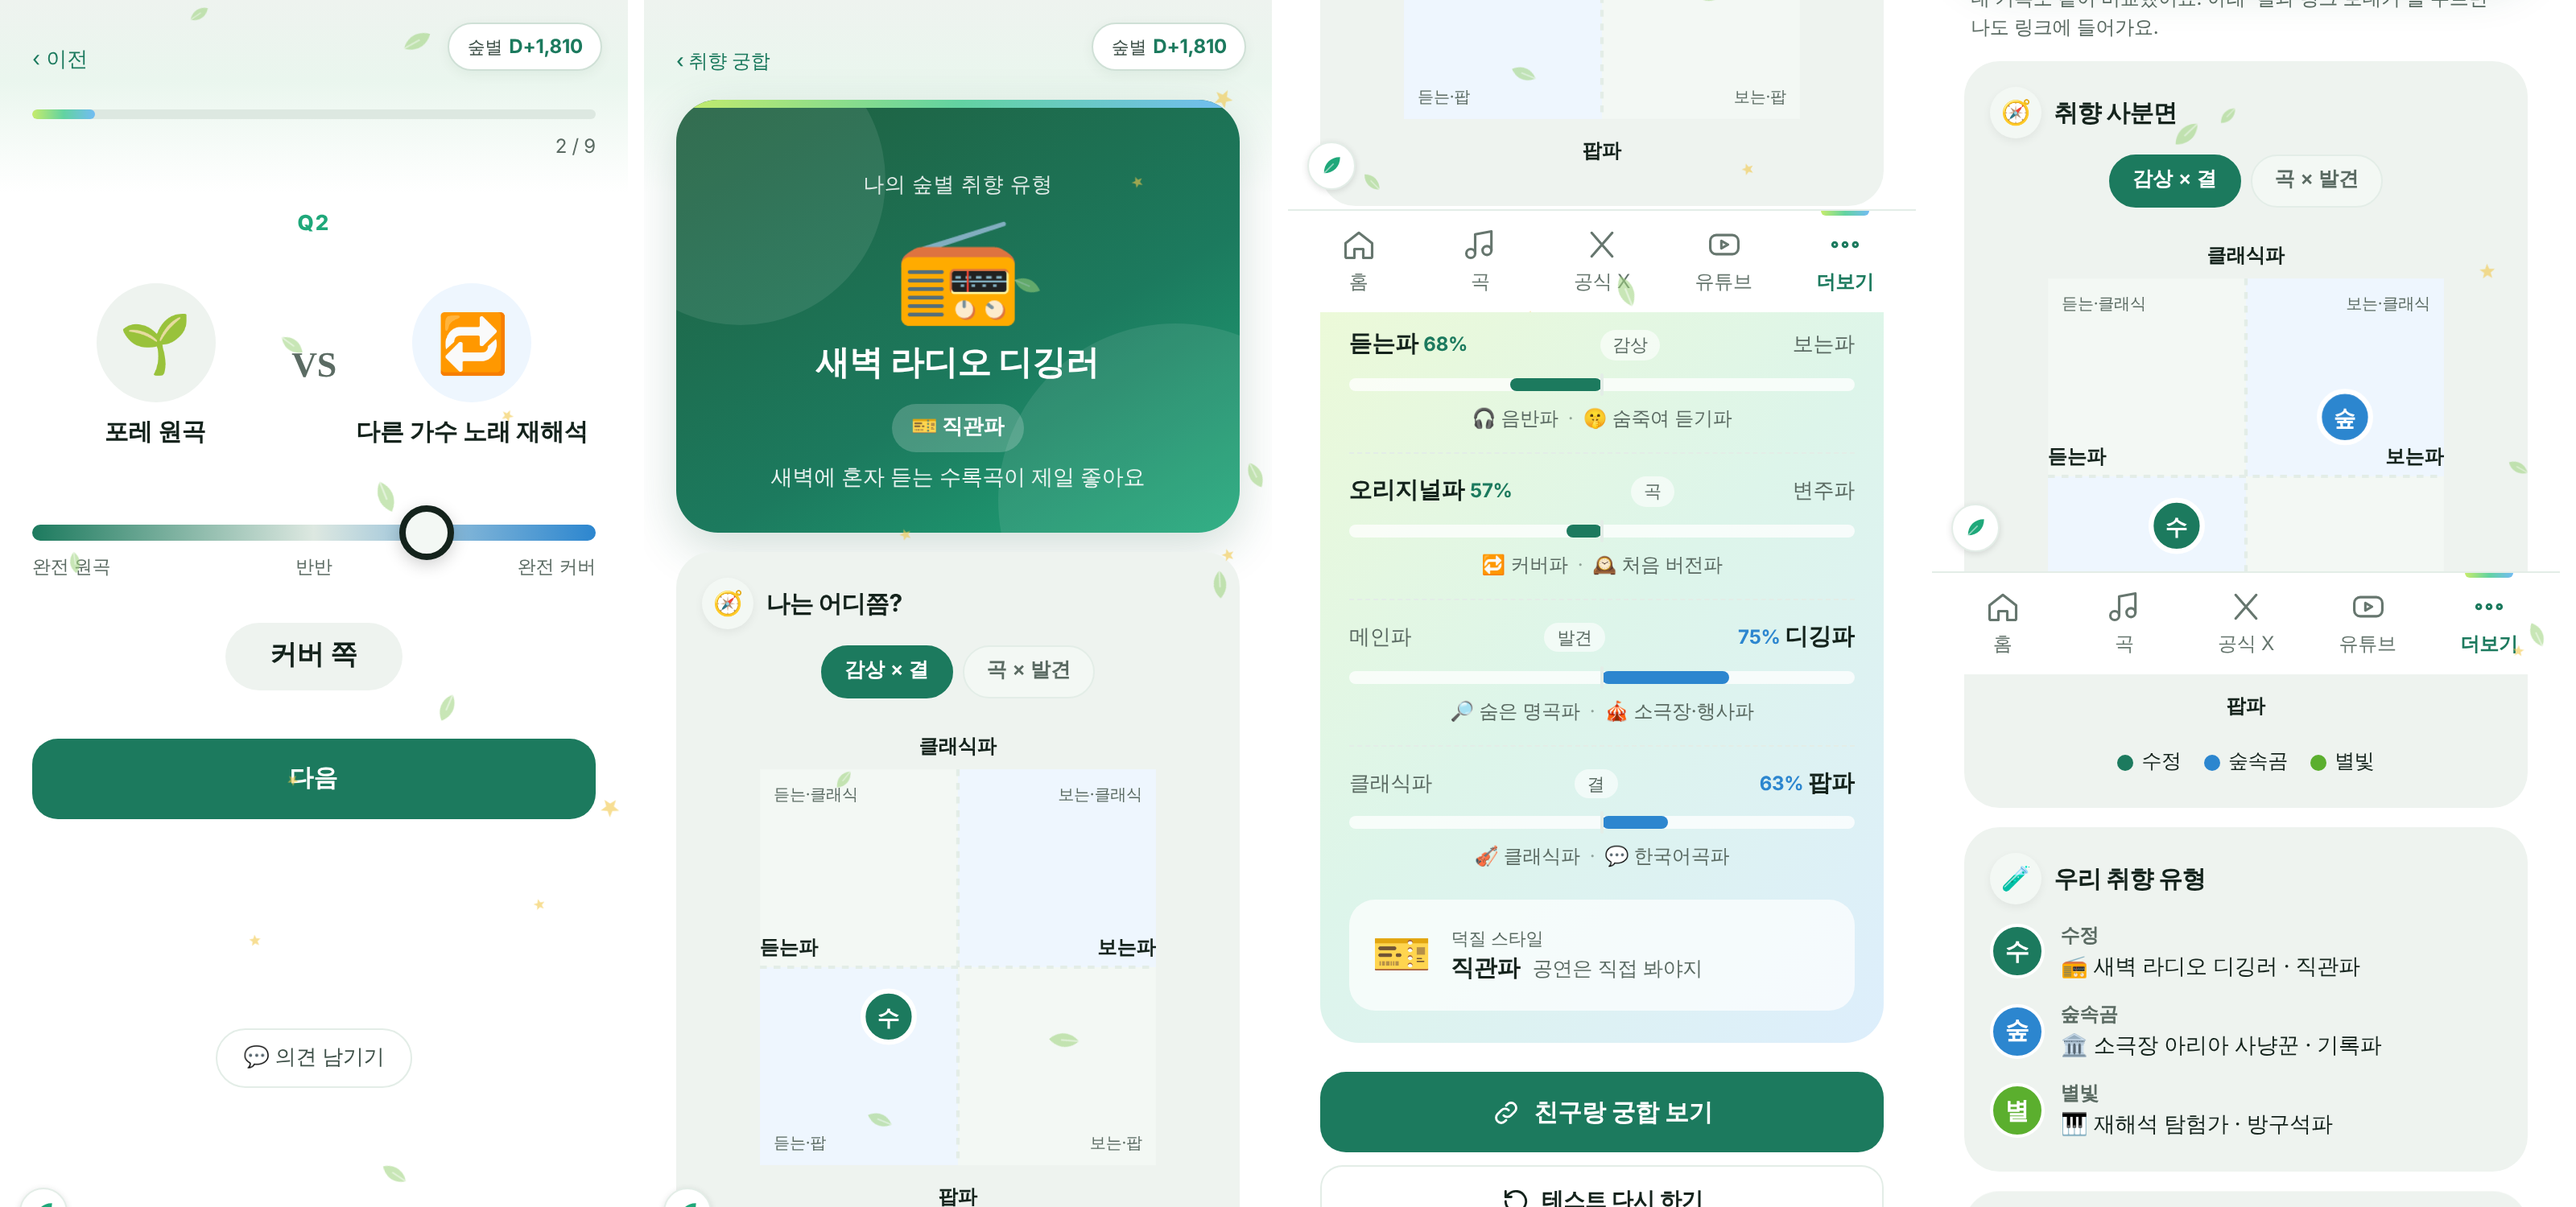
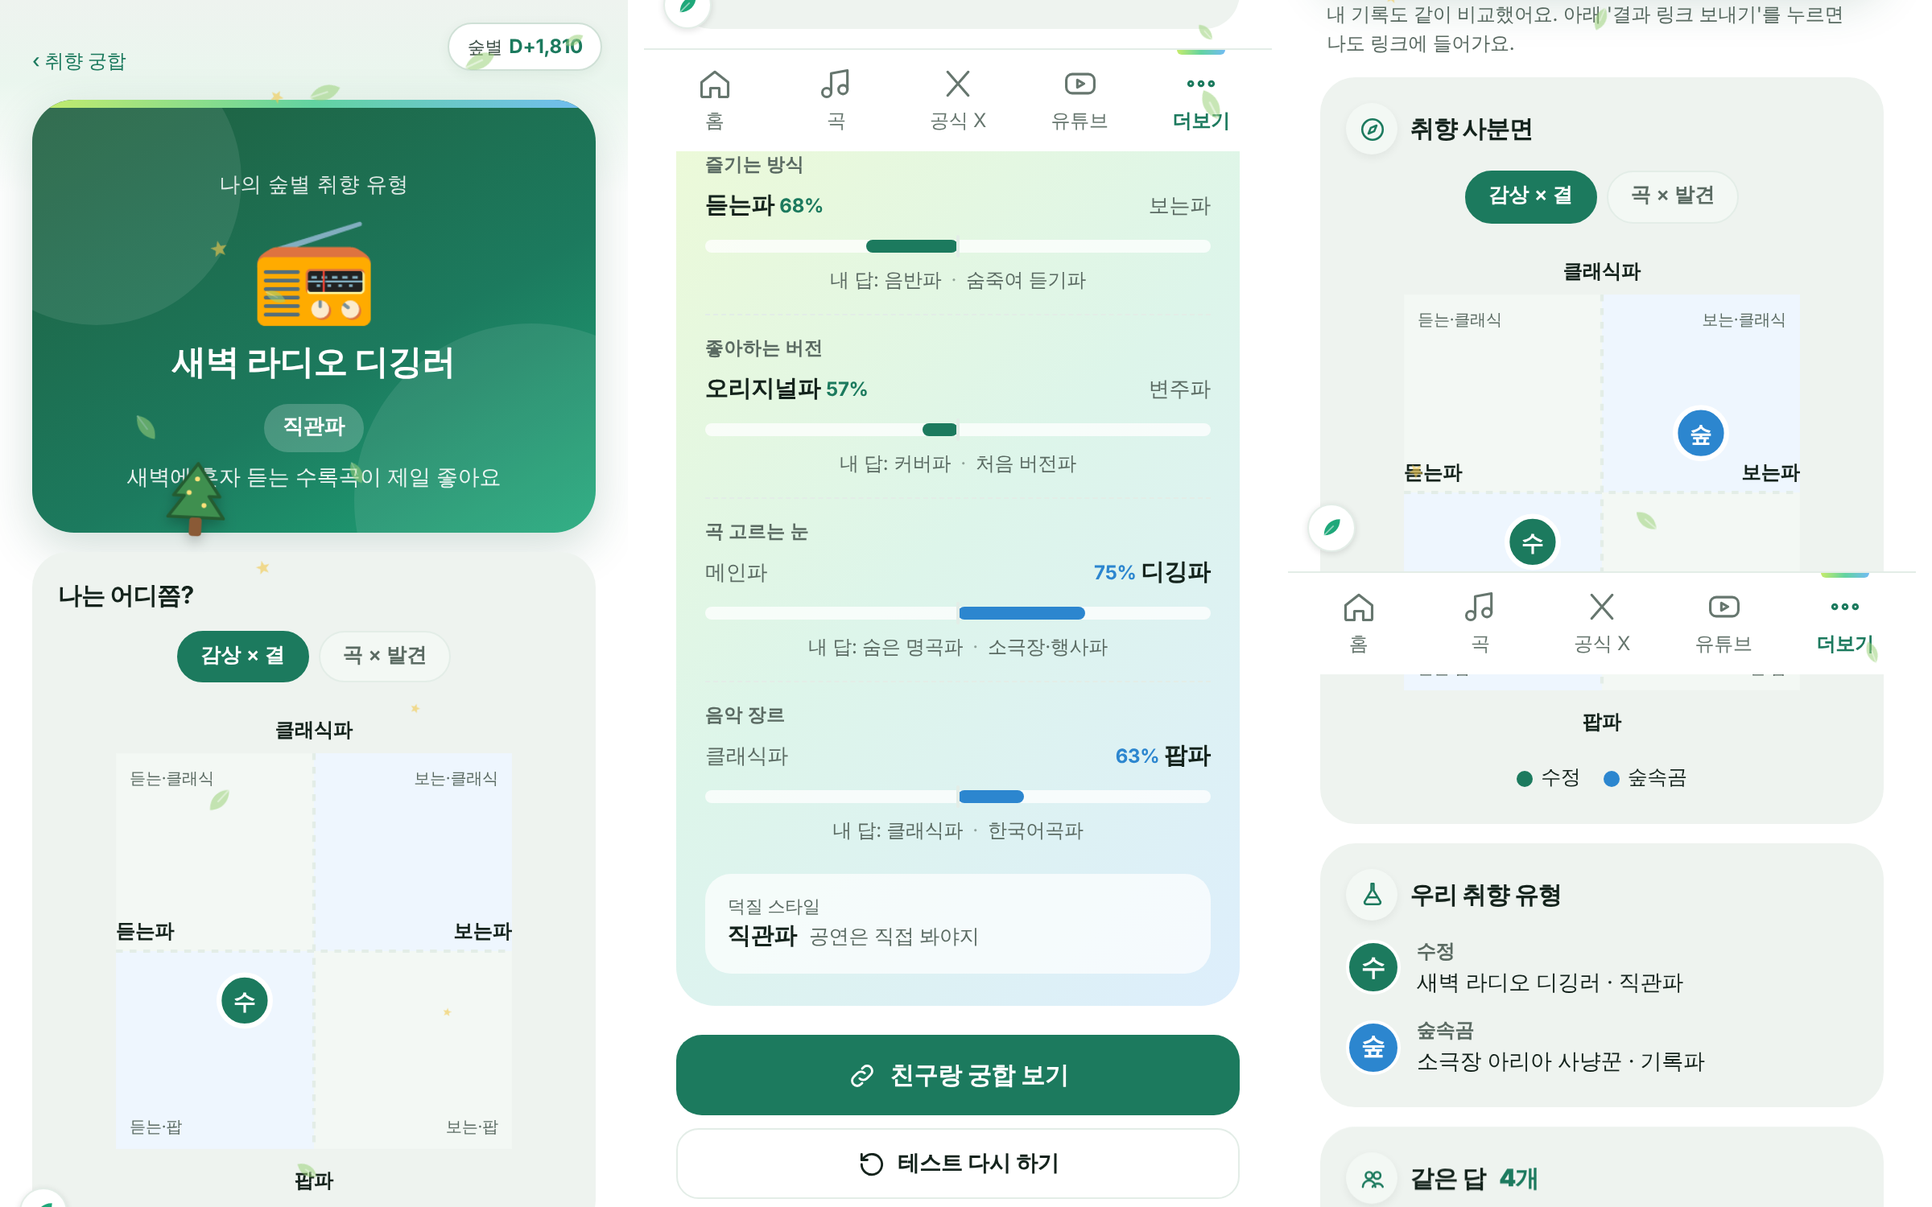
v595: 취향 테스트·궁합 이모지 줄임(카드 머리 선 아이콘, 답·태그·목록 글자만), 질문 '포레 오리지널 곡 VS 커버곡·재해석곡'
Claude-Session: https://claude.ai/code/session_01MGTh9zKioiZsMkgnkSk7j5

diff --git a/app.js b/app.js
@@ -5116,7 +5116,7 @@
   const TS_Q = [
     { ax: 0, q: '음반보다 무대 영상을 더 자주 찾아본다', a: ['🎧', '음반으로 듣기'], b: ['📺', '무대 영상으로 보기'], p: ['음반파', '무대 영상파'] },
     { ax: 0, q: '공연장에선 따라 부르는 게 더 신난다', a: ['🤫', '숨죽여 듣기'], b: ['📣', '떼창'], p: ['숨죽여 듣기파', '떼창파'] },
-    { ax: 1, q: '포레 원곡보다 다른 가수 노래 재해석이 더 끌린다', a: ['🌱', '포레 원곡'], b: ['🔁', '다른 가수 노래 재해석'], p: ['원곡파', '커버파'] },
+    { ax: 1, q: '포레 원곡보다 다른 가수 노래 재해석이 더 끌린다', a: ['🌱', '포레 오리지널 곡'], b: ['🔁', '커버곡·재해석곡'], p: ['오리지널 곡파', '커버곡파'] },
     { ax: 1, q: '같은 곡이면 새로 편곡한 버전이 더 좋다', a: ['🕰', '처음 부른 버전'], b: ['✨', '새로 편곡한 버전'], p: ['처음 버전파', '편곡 버전파'] },
     { ax: 2, q: '남들은 잘 모르는 숨은 명곡을 더 아낀다', a: ['🌟', '대놓고 유명곡'], b: ['🔎', '숨어 듣는 명곡'], p: ['유명곡파', '숨은 명곡파'] },
     { ax: 2, q: '큰 공연장보다 소극장·지역 행사가 더 좋다', a: ['🏟', '큰 공연장 콘서트'], b: ['🎪', '소극장·지역 행사'], p: ['대형 공연장파', '소극장·행사파'] },
@@ -5186,19 +5186,19 @@
         <p class="mt-lab">나의 숲별 취향 유형</p>
         <p class="ts-big">${T[0]}</p>
         <p class="mt-type">${T[1]}</p>
-        <p class="ts-title">${S[0]} ${S[1]}</p>
+        <p class="ts-title">${S[1]}</p>
         <p class="mt-say">${T[2]}</p>
       </div>
-      <section class="mt-card"><h2><span>🧭</span>나는 어디쯤?</h2>${tsQuad([[t, 0, card.nick || '나']])}</section>
+      <section class="mt-card"><h2>나는 어디쯤?</h2>${tsQuad([[t, 0, card.nick || '나']])}</section>
       <section class="ts-sum">
         <h2 class="ts-sum-h">나의 취향 지도</h2>
         ${X.map((x, k) => { const qs = TS_Q.map((q, i) => [q, i]).filter(([q]) => q.ax === k); const w = x.b ? 1 : 0; return `
         <div class="ts-ax${x.half ? ' half' : ''}">
           <p class="ts-ax-t">${TS_AXT[k]}</p><div class="ts-ax-top"><span class="${w ? '' : 'on'}">${TS_AX[k][0]}${w ? '' : ` <em>${x.half ? '⚖' : x.pct + '%'}</em>`}</span><span class="${w ? 'on' : ''}">${w ? `<em>${x.half ? '⚖' : x.pct + '%'}</em> ` : ''}${TS_AX[k][1]}</span></div>
           <div class="ts-axbar"><i class="${w ? 'r' : 'l'}" style="width:${x.pct - 50}%"></i></div>
-          <p class="ts-why">내 답: ${qs.map(([q, i]) => `${(tsVals(t)[i] <= 50 ? q.a : q.b)[0]} ${q.p[tsVals(t)[i] <= 50 ? 0 : 1]}`).join('<em>·</em>')}${x.half ? `<em>·</em>반반이라 첫 답으로 정했어요` : ''}</p>
+          <p class="ts-why">내 답: ${qs.map(([q, i]) => q.p[tsVals(t)[i] <= 50 ? 0 : 1]).join('<em>·</em>')}${x.half ? `<em>·</em>반반이라 첫 답으로 정했어요` : ''}</p>
         </div>`; }).join('')}
-        <div class="ts-style"><span>${S[0]}</span><p><small>덕질 스타일</small><b>${S[1]}</b> ${S[2]}</p></div>
+        <div class="ts-style"><p><small>덕질 스타일</small><b>${S[1]}</b> ${S[2]}</p></div>
       </section>`;
   }
   // 사분면: 사람마다 점 하나 (지도 2장: 감상×결, 곡×발견). pp = [[답, 색 번호, 이름]]
@@ -5259,6 +5259,20 @@
   // 서버 없이 링크에 기록을 담아요: ?d= 뒤에 [{n 이름, s 입덕일, f 최애곡, w 소취곡, h ♥곡, g 직관 일정, m 최애 멤버, u 번호}] (곡은 짧은 해시 5자)
   // 여는 사람은 자동으로 같이 비교되고, '링크 보내기'를 눌러야 내 기록이 링크에 들어가요. 최대 6명
   const MT_MAX = 6;
+  // 카드 머리 선 아이콘 (이모지 대신)
+  const MT_IC = {
+    '♥': '<path d="M12 20s-7-4.4-7-10a4 4 0 0 1 7-2.6A4 4 0 0 1 19 10c0 5.6-7 10-7 10z"/>',
+    '💚': '<path d="M12 20s-7-4.4-7-10a4 4 0 0 1 7-2.6A4 4 0 0 1 19 10c0 5.6-7 10-7 10z"/><path d="M9.5 11.5l2 2 3.5-4"/>',
+    '⚡': '<path d="M13 3 5 14h6l-1 7 8-11h-6z"/>',
+    '🌱': '<path d="M12 21v-9"/><path d="M12 12c0-4 3-6 7-6 0 4-3 6-7 6zM12 14c0-3-2-5-6-5 0 3 2 5 6 5z"/>',
+    '🎤': '<rect x="9" y="3" width="6" height="11" rx="3"/><path d="M6 11a6 6 0 0 0 12 0M12 17v4"/>',
+    '🎫': '<path d="M4 7h16v3a2 2 0 0 0 0 4v3H4v-3a2 2 0 0 0 0-4z"/><path d="M10 7v10" stroke-dasharray="2 2"/>',
+    '📊': '<path d="M5 20V10M12 20V4M19 20v-7"/>',
+    '🙏': '<path d="M12 3l2.6 5.3 5.8.8-4.2 4.1 1 5.8-5.2-2.7-5.2 2.7 1-5.8L3.6 9.1l5.8-.8z"/>',
+    '🤝': '<circle cx="9" cy="9" r="3"/><circle cx="16" cy="9" r="3"/><path d="M3.5 19a5.5 5.5 0 0 1 11 0M12 19a5 5 0 0 1 9 0"/>',
+    '🧪': '<path d="M5 19a2 2 0 0 0 2 2h10a2 2 0 0 0 2-2L13 9V3h-2v6z"/><path d="M8 15h8"/>',
+    '🧭': '<circle cx="12" cy="12" r="9"/><path d="M15.5 8.5 13.5 13.5 8.5 15.5 10.5 10.5z"/>',
+  };
   const MT_A = 'ABCDEFGHIJKLMNOPQRSTUVWXYZabcdefghijklmnopqrstuvwxyz0123456789-_';
   const mtHash = k => { let h = 2166136261; for (const c of k) { h ^= c.codePointAt(0); h = Math.imul(h, 16777619); } h >>>= 8; let o = ''; for (let i = 0; i < 4; i++) { o = MT_A[h & 63] + o; h >>>= 6; } return o; };
   const mtB64 = s => btoa(unescape(encodeURIComponent(s))).replace(/\+/g, '-').replace(/\//g, '_').replace(/=+$/, '');
@@ -5277,7 +5291,7 @@
   const mtSong = () => { const m = new Map(); data.songs.forEach(so => m.set(mtHash(so.key), so)); return m; };
   const mtInter = (a, b) => a.filter(x => b.includes(x));
   const mtOv = (a, b) => { if (!a.length || !b.length) return null; const c = mtInter(a, b).length; return c ? 0.6 * c / Math.min(a.length, b.length) + 0.4 * 2 * c / (a.length + b.length) : 0; };
-  const MT_PARTS = [['t', 40, '🧪 취향 테스트 메이트'], ['f', 30, '💚 최애곡 메이트'], ['h', 25, '♥ 플레이리스트 메이트'], ['g', 25, '🎫 직관 메이트'], ['w', 10, '🙏 소취 동지'], ['m', 10, '같은 멤버 러버']];
+  const MT_PARTS = [['t', 40, '취향 테스트 메이트'], ['f', 30, '최애곡 메이트'], ['h', 25, '플레이리스트 메이트'], ['g', 25, '직관 메이트'], ['w', 10, '소취 동지'], ['m', 10, '같은 멤버 러버']];
   function mtPair(a, b) {
     let sum = 0, wt = 0; const got = {};
     MT_PARTS.forEach(([k, w]) => {
@@ -5334,13 +5348,13 @@
       return `${back}
         <section class="mt-intro">
           <div class="mt-hero mt-hero-in"><i class="mt-stripe"></i><span class="mt-spark">💞</span><h1>숲별 취향 궁합</h1><p>나랑 취향이 얼마나 비슷할까?<br>링크를 보내면 친구 기록이랑 바로 비교돼요</p></div>
-          ${tsRead() ? `<a class="ts-mine" href="#/match?r=1"><small>나의 취향 유형</small><b>${tsName(tsRead())}</b><span>결과 보기 ›</span></a>`
-            : `<a class="ts-start" href="#/match?test=1${q.get('d') ? '&d=' + encodeURIComponent(q.get('d')) : ''}"><span>🧪</span><b>취향 테스트 먼저 해 볼래요?</b><small>9문항 · 1분이면 끝나요. 기록이 없어도 궁합을 볼 수 있어요</small></a>`}
+          ${tsRead() ? `<a class="ts-mine" href="#/match?r=1"><small>나의 취향 유형</small><b>${tsType(tsRead())[1]}</b><span>결과 보기 ›</span></a>`
+            : `<a class="ts-start" href="#/match?test=1${q.get('d') ? '&d=' + encodeURIComponent(q.get('d')) : ''}"><b>취향 테스트 먼저 해 볼래요?</b><small>9문항 · 1분이면 끝나요. 기록이 없어도 궁합을 볼 수 있어요</small></a>`}
           ${from ? `<p class="mt-from">${mtAv(from, 0)} <b>${esc(from.n)}</b> 님이 궁합 링크를 보냈어요. 내 기록이 있어야 비교할 수 있어요.</p>` : ''}
           ${mine ? `
             <div class="mt-mine">
               <label class="mt-nick">링크에 보일 이름 <input id="mt-nick" maxlength="12" value="${esc(card.nick || '')}" placeholder="숲별"></label>
-              <ul class="mt-incl">${me.t ? '<li>🧪 유형 <b>✓</b></li>' : ''}<li>💚 최애곡 <b>${me.f.length}</b></li><li>🙏 소취곡 <b>${me.w.length}</b></li><li>♥ 곡 <b>${me.h.length}</b></li><li>🎫 직관 <b>${me.g.length}</b></li></ul>
+              <ul class="mt-incl">${me.t ? '<li>테스트 <b>✓</b></li>' : ''}<li>최애곡 <b>${me.f.length}</b></li><li>소취곡 <b>${me.w.length}</b></li><li>♥ 곡 <b>${me.h.length}</b></li><li>직관 <b>${me.g.length}</b></li></ul>
               <button type="button" class="mt-go" id="mt-send"><svg viewBox="0 0 24 24" aria-hidden="true"><path d="M10 14a4 4 0 0 0 5.7 0l3-3a4 4 0 0 0-5.7-5.7l-1 1"/><path d="M14 10a4 4 0 0 0-5.7 0l-3 3a4 4 0 0 0 5.7 5.7l1-1"/></svg>내 궁합 링크 보내기</button>
               <p class="mt-note">링크엔 위 기록(곡·직관 일정)과 이름·입덕일이 들어가요. 링크를 받은 사람만 볼 수 있어요.<br>여러 명이면 받은 사람이 열고 결과 링크를 다시 보내면 계속 이어져요 (최대 ${MT_MAX}명).</p>
             </div>` : `<p class="empty">아직 비교할 기록이 없어요. 곡에 ♥나 💚 최애곡, 일정에 🎫 직관을 눌러 두면 궁합을 볼 수 있어요.<br><a href="#/songs">곡 아카이브 가기</a></p>`}
@@ -5349,12 +5363,12 @@
     const S = mtSong(), R = mtCalc(list), group = list.length > 2, T = mtHead(list, R.pct);
     const songs = ks => ks.map(k => S.get(k)).filter(Boolean);
     const chips = arr => `<div class="mt-chips">${arr.map(so => `<a class="chip" href="#/song/${encodeURIComponent(so.key)}">${esc(so.name)}</a>`).join('')}</div>`;
-    const card1 = (ic, t, body) => `<section class="mt-card"><h2><span>${ic}</span>${t}</h2>${body}</section>`;
+    const card1 = (ic, t, body) => `<section class="mt-card"><h2><span>${MT_IC[ic] ? `<svg viewBox="0 0 24 24" aria-hidden="true">${MT_IC[ic]}</svg>` : ''}</span>${t}</h2>${body}</section>`;
     const cards = [];
     const tp = list.map((p, i) => [p, i]).filter(([p]) => p.t);
     if (tp.length >= 2) {
       cards.push(card1('🧭', '취향 사분면', tsQuad(tp.map(([p, i]) => [p.t, i, p.n]))));
-      cards.push(card1('🧪', '우리 취향 유형', `<ul class="ts-who">${tp.map(([p, i]) => `<li>${mtAv(p, i)}<span><b>${esc(p.n)}</b>${tsName(p.t)} · ${tsStyle(p.t)[1]}</span></li>`).join('')}</ul>`));
+      cards.push(card1('🧪', '우리 취향 유형', `<ul class="ts-who">${tp.map(([p, i]) => `<li>${mtAv(p, i)}<span><b>${esc(p.n)}</b>${tsType(p.t)[1]} · ${tsStyle(p.t)[1]}</span></li>`).join('')}</ul>`));
       const side = (t, i) => i === 8 ? +t[16] : tsVals(t)[i] <= 50 ? 0 : 1, lab = (i, v) => i === 8 ? TS_STYLE.o[v][1] : TS_Q[i].p[v];
       if (tp.length === 2) {
         const [[a], [b]] = tp, same = [], diff = [];

diff --git a/index.html b/index.html
@@ -23,7 +23,7 @@
 <link href="https://fonts.googleapis.com/css2?family=Gowun+Batang:wght@400;700&display=swap" rel="stylesheet">
 <link rel="stylesheet" href="https://cdn.jsdelivr.net/gh/orioncactus/pretendard@v1.3.9/dist/web/variable/pretendardvariable-dynamic-subset.min.css">
 <script>try{var d=JSON.parse(localStorage.getItem('sb-deco')||'{}');if(d.t)document.documentElement.dataset.theme=d.t;if(d.f)document.documentElement.dataset.fs=d.f}catch(e){}</script>
-<link rel="stylesheet" href="style.css?v=594">
+<link rel="stylesheet" href="style.css?v=595">
 </head>
 <body>
 <div class="app">
@@ -46,9 +46,9 @@
 <!-- 방문자 수 (GoatCounter: 쿠키·개인정보 없이 화면별 방문 수만 세요) -->
 <script data-goatcounter="https://soopbyeol.goatcounter.com/count" data-goatcounter-settings='{"no_onload": true}' async src="https://gc.zgo.at/count.js"></script>
 <script src="lib/fuse.min.js"></script>
-<script src="i18n.js?v=594"></script>
-<script src="config.js?v=594"></script>
-<script src="data.js?v=594"></script>
-<script src="app.js?v=594"></script>
+<script src="i18n.js?v=595"></script>
+<script src="config.js?v=595"></script>
+<script src="data.js?v=595"></script>
+<script src="app.js?v=595"></script>
 </body>
 </html>

diff --git a/style.css b/style.css
@@ -2100,3 +2100,5 @@ a.wt-yes { display: flex; align-items: center; text-decoration: none; }
 .ts-vs b { font-size: 15px; line-height: 1.35; word-break: keep-all; }
 .ts-vs em { font-style: normal; font-family: "Nanum Myeongjo", serif; font-size: 22px; font-weight: 800; color: var(--muted); }
 .ts-ax-t { margin: 0 0 6px; font-size: 11.5px; font-weight: 700; color: var(--muted); letter-spacing: .02em; }
+.mt-card h2 span:empty { display: none; }
+.mt-card h2 span svg { width: 17px; height: 17px; fill: none; stroke: var(--green); stroke-width: 1.8; stroke-linecap: round; stroke-linejoin: round; }

diff --git a/sw.js b/sw.js
@@ -1,6 +1,6 @@
 // 한 번 연 화면 파일을 저장해 두고, 다음부터 빨리 열거나 인터넷이 없을 때 써요.
 // 시트 데이터는 data.js가 따로 저장하니까 여기서는 사이트 파일만 다뤄요.
-const CACHE = 'soopbyeol-v594';
+const CACHE = 'soopbyeol-v595';
 const SHELL = ['./', 'index.html', 'style.css?v=162', 'config.js?v=162', 'data.js?v=162', 'app.js?v=162', 'lib/fuse.min.js', 'manifest.webmanifest', 'icons/icon-192.png'];
 
 self.addEventListener('install', ev => {
